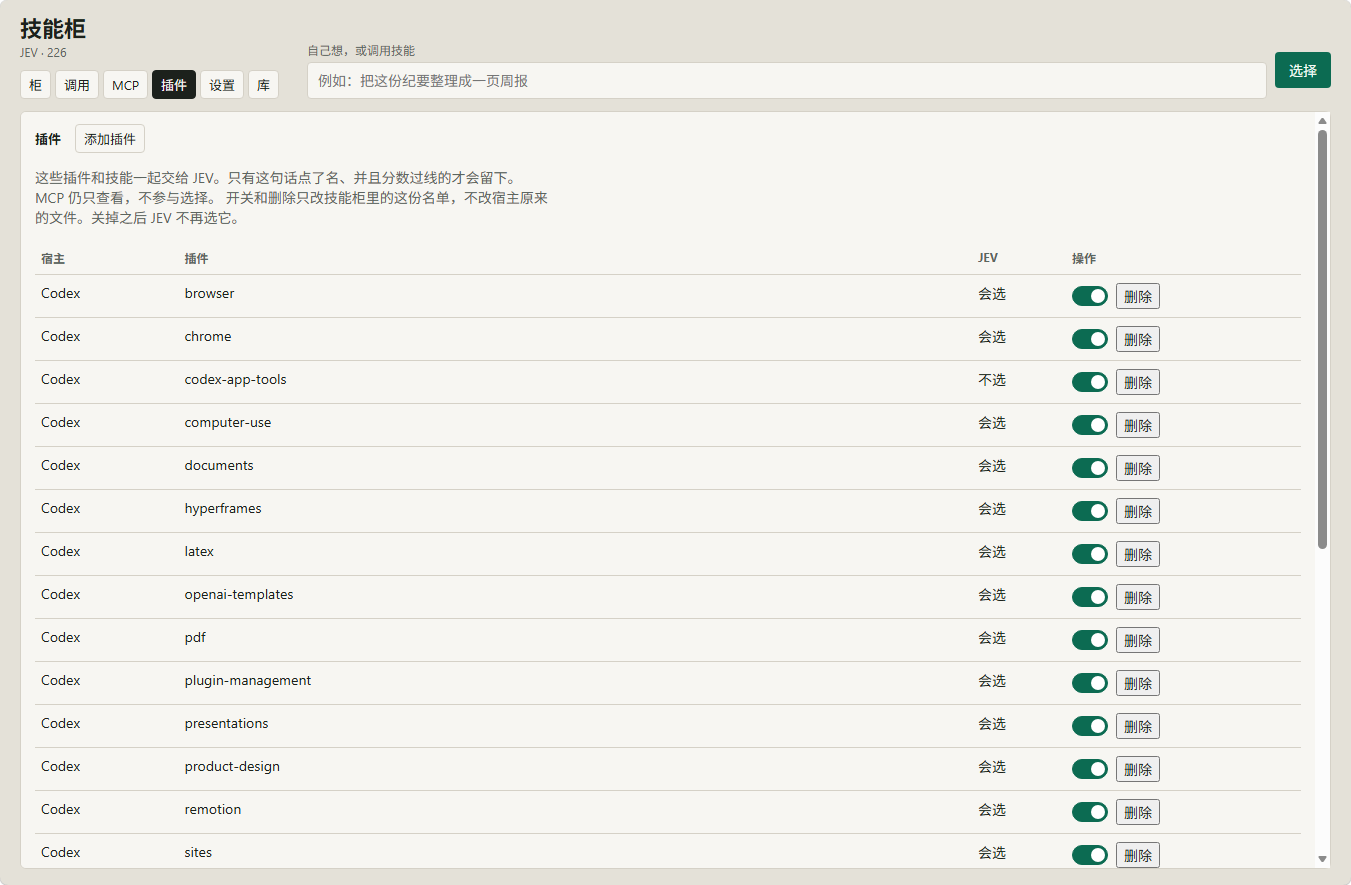
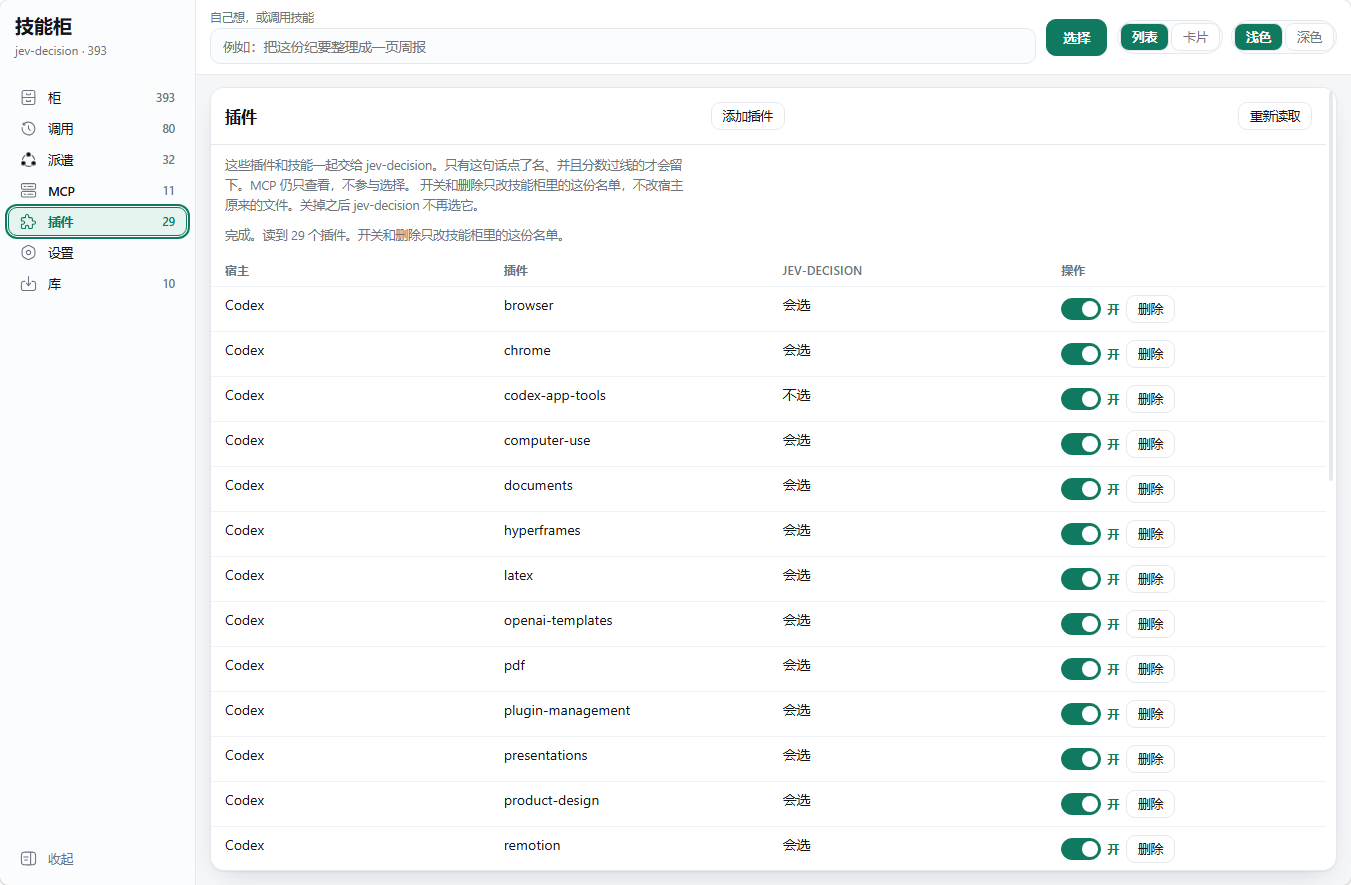
Backup: rewrite the README around the new cabinet UI screenshots.

diff --git a/README.md b/README.md
@@ -1,3 +1,94 @@
 # 技能柜
 
-![技能柜](docs/home.png)
+本机先决定用哪些技能和插件，再让对话模型开口。[jev-decision](https://github.com/kdcadmin/jev-decision-kit) 只做这一件事：看你的原句，选出「自己做」或几份技能 / 插件。网页柜用来浏览、整理、从网上的 skill 仓库安装；它不替模型挑选。
+
+仓库：https://github.com/kdcadmin/jev-decision-kit
+
+![柜](docs/home.png)
+
+## 它解决什么
+
+对话模型自己翻技能目录，容易选错、选多、或把 MCP 工具清单当成技能表。技能柜把选择从云端模型里拿出来：打分在你电脑上的 `models/jev/head.json`，不经过云。留下的门必须被原句点名，并且分数达到 0.4；没写进权重的插件，点了名就会留下。附近写了「不要 / 别 / 不用 / 勿」的那一项去掉。
+
+模型拿到的前言以 `jev-decision:` 开头，只报名字。正文用宿主自己的技能工具（或只读 MCP `get_skill`）去读，读完照做，不要再选一遍。
+
+## 网页柜
+
+本机打开：
+
+```powershell
+.venv\Scripts\python.exe web\server.py
+```
+
+浏览器访问 http://127.0.0.1:8765/ 。接入 Hermes / OpenClaw / DeepSeek Harness 不走这个网页，走 [INTEGRATION.md](INTEGRATION.md)。
+
+左侧是柜、调用、派遣、MCP、插件、设置、库。顶栏可以试一句「选择」，也可以在列表 / 卡片、浅色 / 深色之间切换。侧栏可以收起。
+
+### 柜
+
+分类、技能列表、右侧正文。改的是项目里的副本，原来的技能目录不会删。
+
+![浏览技能](docs/cabinet.png)
+
+在顶栏提交一句之后，会看到做法、柜门分数、选中的技能，以及没带上的门。
+
+![一次选择](docs/ui-decision.png)
+
+### 库
+
+按 GitHub 星标浏览 agent-skills 一类仓库，也可以只装其中一个技能。下面是市面上的 skill 目录链接，点过去原站。技能副本、本机插件和 MCP 配置不进这个公开仓库。
+
+![技能库](docs/library.png)
+
+### MCP 与插件
+
+这两页只是柜子自己的清单。开关和删除不改 Cursor、Hermes、Codex、OpenClaw 的配置文件，也不保存密钥。jev-decision **不会挑选 MCP**；插件和技能一起交给选择器，点名且过线的才会进前言。
+
+![MCP 清单](docs/mcp.png)
+
+![插件清单](docs/plugins.png)
+
+### 设置
+
+打开或关闭选择器，指定技能文件夹和权重文件路径。
+
+![设置](docs/settings.png)
+
+调用页是每次决定的记录（点一行可以看判定依据）。派遣页只**建议**要不要派子代理，不强制创建；真正的子代理日志来自已经接上的宿主。
+
+## 接入对话宿主
+
+选择器开着时，Hermes、OpenClaw、DeepSeek Harness 会在模型开口前注入前言。步骤、前言格式、MCP 只读约定见 [INTEGRATION.md](INTEGRATION.md)。Cursor 默认不接这条前言。
+
+```json
+{
+  "mcpServers": {
+    "jev-skill-kit": {
+      "command": "项目目录\\.venv\\Scripts\\python.exe",
+      "args": ["项目目录\\mcp_server.py"],
+      "env": {"USE_TF": "0", "PYTHONUTF8": "1"}
+    }
+  }
+}
+```
+
+`get_skill` 只能读已经选定的技能，不能当目录用。
+
+## 选择规则（摘要）
+
+完整口径在 [SPEC.md](SPEC.md) 和 [INTEGRATION.md](INTEGRATION.md)。
+
+- 原句不拆段；点名且 ≥ 0.4 的门全部留下。
+- 没点名的门按 0 分计。
+- 「自己做」时不要打开技能柜。
+- 训练与回归：`python -m host.train_jev`。网页上点重新训练若被拒绝，会说明原因，不会替换官方 `head.json`。
+
+## 本仓库不包含
+
+- 你电脑上的 `skills/` 副本、插件安装件、MCP 配置
+- 介绍视频（只留本机）
+- 选择器训练中的 `head.json` 未发布改动
+
+## 许可
+
+[MIT](LICENSE)。第三方技能仍是各自的许可证；不要把别人的技能正文当成本仓库的 MIT 内容再分发。
